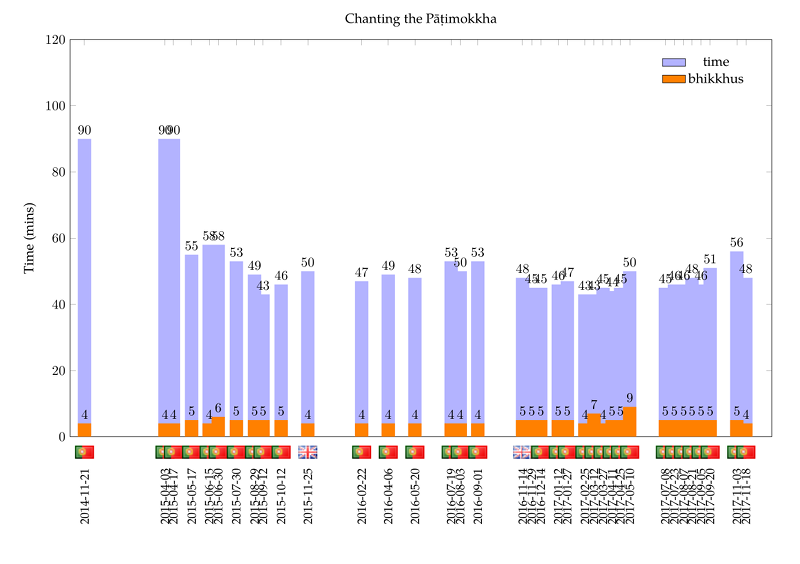
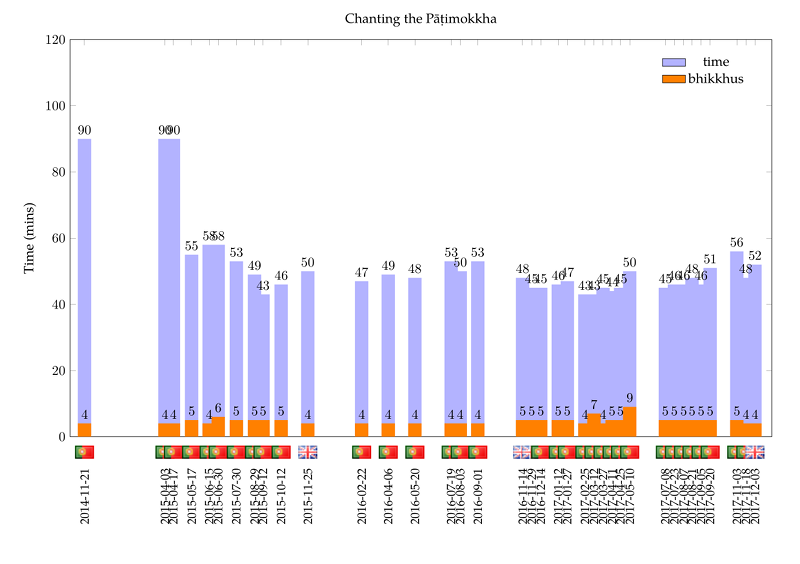
upd

Changed region(s): [[0.9062, 0.4521, 0.9688, 0.9344]]

diff --git a/src/patimokkha-chanting-chart.tex b/src/patimokkha-chanting-chart.tex
@@ -119,6 +119,7 @@
   \node [anchor=south, yshift=-20pt] at (axis cs:2017-09-20,0) {\includegraphics[width=5mm]{pt}};
   \node [anchor=south, yshift=-20pt] at (axis cs:2017-11-03,0) {\includegraphics[width=5mm]{pt}};
   \node [anchor=south, yshift=-20pt] at (axis cs:2017-11-18,0) {\includegraphics[width=5mm]{pt}};
+  \node [anchor=south, yshift=-20pt] at (axis cs:2017-12-03,0) {\includegraphics[width=5mm]{gb}};
 
 \end{axis}
 \end{tikzpicture}
